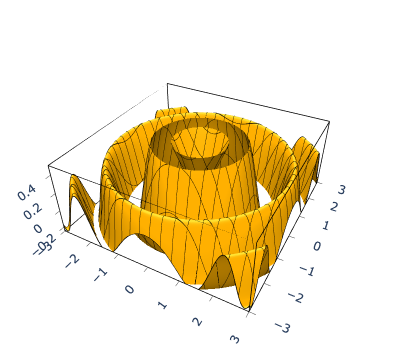
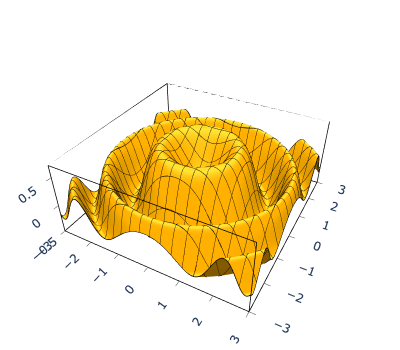
Update demos

diff --git a/demos/demo_180_man_eex.m b/demos/demo_180_man_eex.m
@@ -1,11 +1,9 @@
 Manipulate[
     Plot3D[
-        {Exp[Exp[x + I y]], 1},
-        {x,-xlim,xlim}, {y,-ylim,ylim},
-        PlotRange->{Automatic, Automatic, {-2,zlim}},
-        BoxRatios->{1,1,1}
+        {Exp[Exp[x + I y]], z},
+        {x,-1.5,1.5}, {y,-6,6},
+        PlotRange->{Automatic, Automatic, {-1,1.5}},
+        BoxRatios->{1,1,1}, ViewPoint->{-2,-1,.5}
     ],
-    {{xlim,1.5}, 1, 2, 0.05},
-    {{ylim,6}, 1, 10, 0.1},
-    {{zlim,10}, 1, 50, 1}
+    {{z,1}, -1, 1.5, 0.05}
 ]

diff --git a/demos/demo_020_man_3d_sinsqrt.m b/demos/demo_020_man_3d_sinsqrt.m
@@ -1,8 +1,8 @@
 Manipulate[
     Plot3D[
         Sin[(x^2+y^2)*freq] / Sqrt[x^2+y^2+1] * amp, {x,-3,3}, {y,-3,3},
-        PlotRange -> {Automatic, Automatic, {-0.25,0.5}}
+        PlotRange -> {Automatic, Automatic, {-0.5,0.7}}
     ],
-    {{freq,1.0}, 0.1, 2.0, 0.2}, (* freq slider spec *)
-    {{amp,1.0}, 0.0, 2.0, 0.2}  (* amp slider spec *)
+    {{freq,1.0}, 0.1, 2.0, 0.1}, (* freq slider spec *)
+    {{amp,1.0}, 0.0, 2.0, 0.1}  (* amp slider spec *)
 ]
